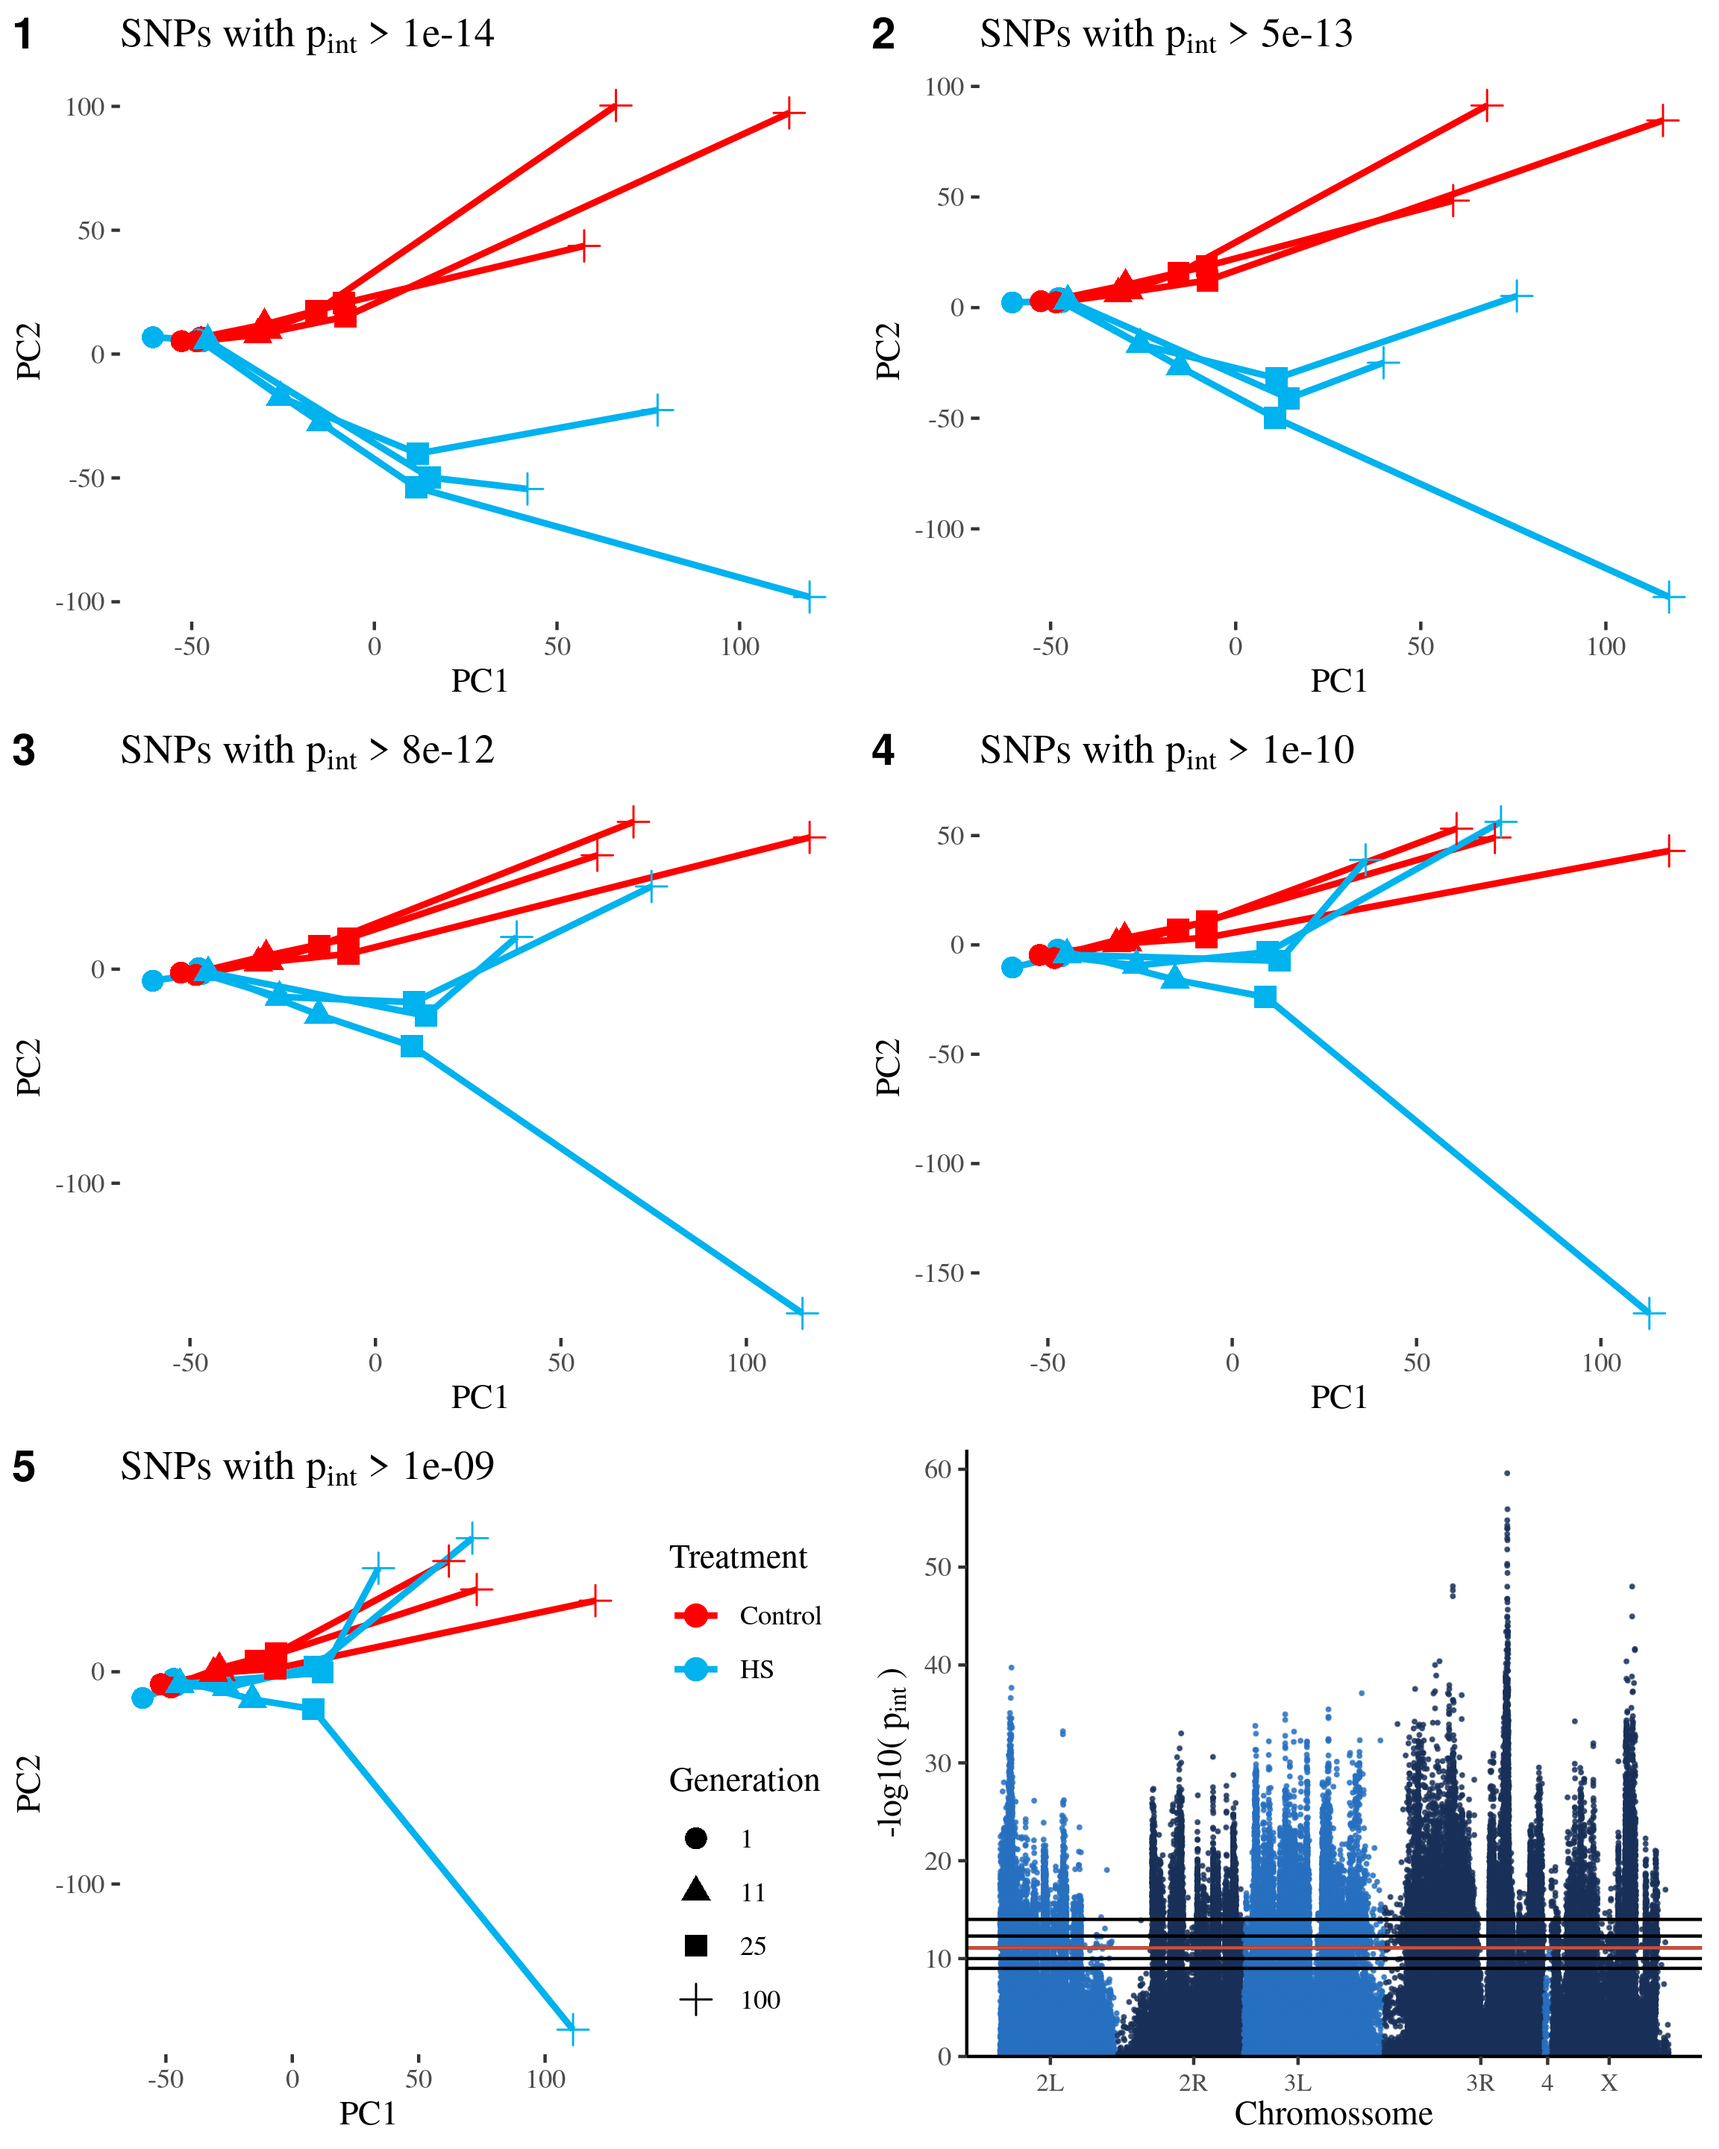
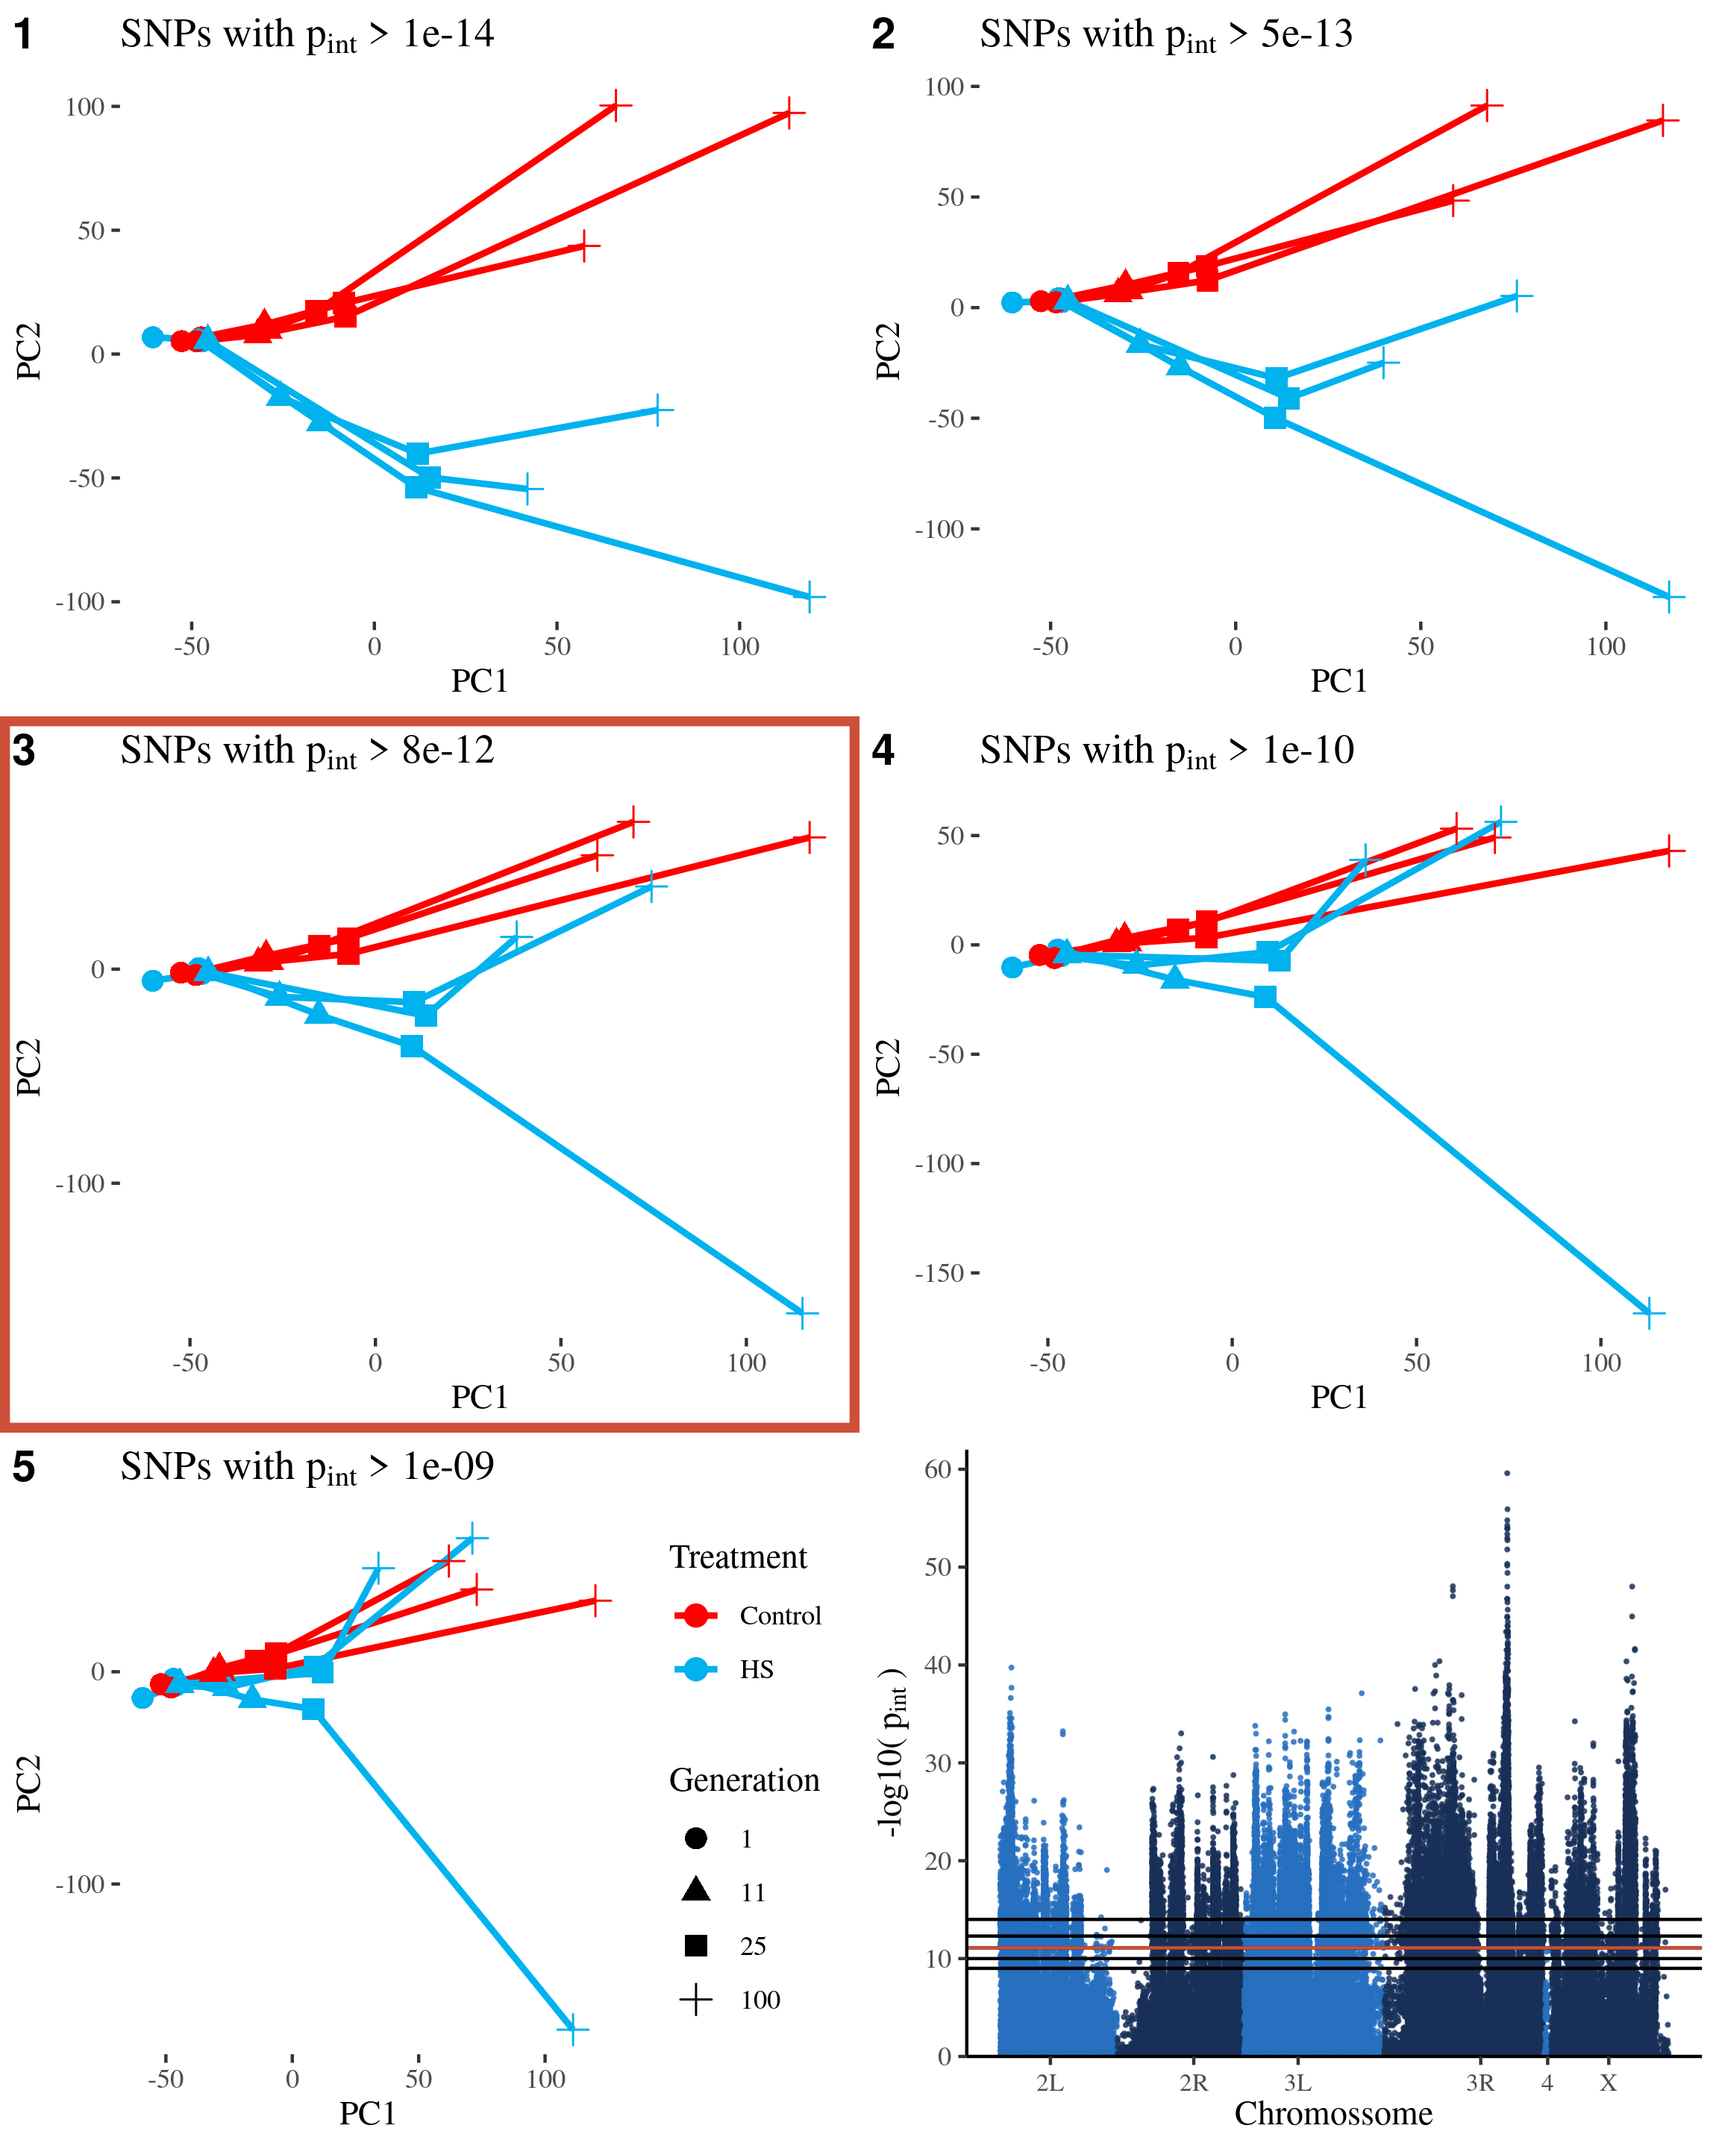
new SI figure on the p-valeu threshold

Changed region(s): [[0.0, 0.3125, 0.5, 0.6875], [0.625, 0.9062, 0.6875, 0.9375], [0.7812, 0.9062, 0.8125, 0.9375]]

diff --git a/main.md b/main.md
@@ -266,11 +266,11 @@ Corresponding data is available at **Princeton DataSpace link**.
 
 Supporting information can be found at [github.com/diogro/HighSugarSelection](https://github.com/diogro/HighSugarSelection).
 
-[Comparison of PC scores and p-values from regression analysis. PC1 scores are similar to p-values from SNPs that show a shared selection signal across treatment and control, and PC2 scores are similar to p-values from SNPs that only show selection signal in HS.](./figures/placeholder.jpg){#fig:PCscores_pvals tag="S1"}
+![Comparison of PC scores and p-values from regression analysis. PC1 scores are similar to p-values from SNPs that show a shared selection signal across treatment and control, and PC2 scores are similar to p-values from SNPs that only show selection signal in HS.](./figures/placeholder.jpg){#fig:PCscores_pvals tag="S1"}
 
-[Across population allele frequency PCA (as in @fig:pca) after exclusion of significant SNPs. As the p-value significance threshold for the high sugar selection interaction term is increased and more putatively selected SNPs are removed, PC2 gradually explains less and less of the divergence between selected and control populations.](figures/sequential_PCA.png){#fig:pca_threshold tag="S2"}
+![Across population allele frequency PCA (as in @fig:pca) after exclusion of significant SNPs. As the p-value significance threshold for the high sugar selection interaction term is increased and more putatively selected SNPs are removed, PC2 gradually explains less and less of the divergence between HS and control populations. The Manhattan plot in the final panel shows the -log10 p-values for the interaction term in the regression analysis and the horizontal lines show the various thresholds used in the PCA panels. For each PCA panel, SNPs above the threshold are removed before calculating the PCA. The threshold we chose based on the differentiation between control and HS populations in the PCA plot is marked by the red line in the Manhattan plot and the red binding box around the corresponding PCA plot.](figures/sequential_PCA.png){#fig:pca_threshold tag="S2"}
 
-[A comparison of the results from the time-series regression analysis and the iHS analysis. We compare the p-values from the regression analysis to the absolute iHS values calculated on the HS populations. (A) Negative log10 transformed p-values corresponding to the time-by-selection regime interaction coefficient in the regression analysis of allele frequency over time (y-axis) plotted versus absolute iHS scores (x-axis). (B) Negative log10 transformed p-values corresponding to the control population contrast in the regression analysis of allele frequency over time (y-axis) plotted versus absolute iHS scores calculated on the HS populations (x-axis). Around 15K SNPs included in the figure, with each point representing one SNP. Only the interaction term p-value are associated with iHS values, suggesting both capture a signal related to high sugar selection. In contrast, signals associated with changes in the Control population are not associated with the iHS signal in the HS populations.](./figures/iHS.png){#fig:iHS tag="S3"}
+![A comparison of the results from the time-series regression analysis and the iHS analysis. We compare the p-values from the regression analysis to the absolute iHS values calculated on the HS populations. (A) Negative log10 transformed p-values corresponding to the time-by-selection regime interaction coefficient in the regression analysis of allele frequency over time (y-axis) plotted versus absolute iHS scores (x-axis). (B) Negative log10 transformed p-values corresponding to the control population contrast in the regression analysis of allele frequency over time (y-axis) plotted versus absolute iHS scores calculated on the HS populations (x-axis). Around 15K SNPs included in the figure, with each point representing one SNP. Only the interaction term p-value are associated with iHS values, suggesting both capture a signal related to high sugar selection. In contrast, signals associated with changes in the Control population are not associated with the iHS signal in the HS populations.](./figures/iHS.png){#fig:iHS tag="S3"}
 
 
 # References
